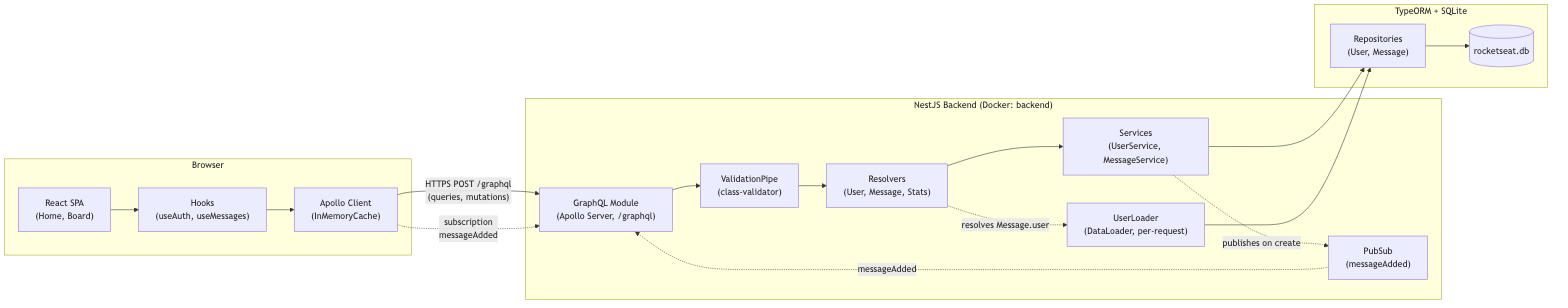
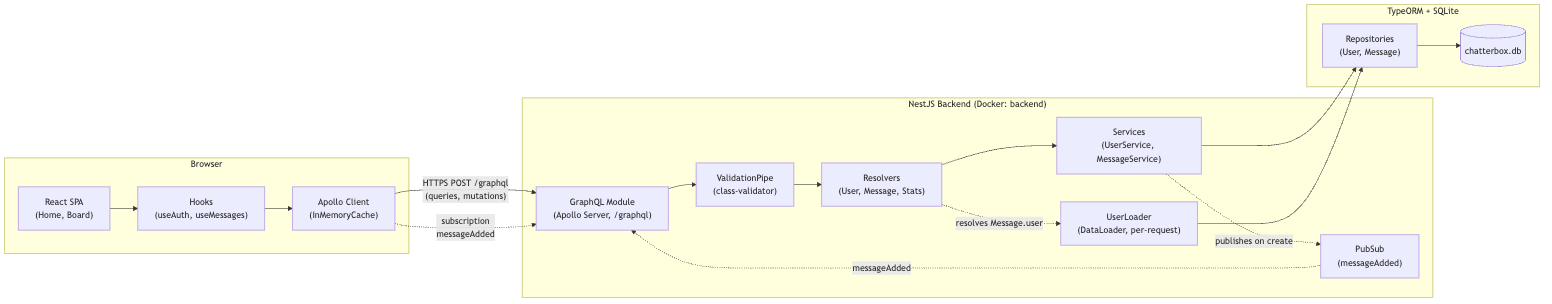
Updates

diff --git a/back-end/src/db/loaders/UserLoader.spec.ts b/back-end/src/db/loaders/UserLoader.spec.ts
@@ -1,0 +1,69 @@
+import { DataSource } from 'typeorm';
+import createUserLoader from './UserLoader';
+import User from '../models/user.entity';
+
+// UserLoader is the actual piece of code behind the README's "DataLoader —
+// per-request batch loading (N+1 prevention)" claim, but nothing exercised
+// it directly: the resolver spec only checks that `getUser` calls
+// `UserLoader.load(id)`, with the loader itself mocked away. If the batch
+// function here ever returned users out of order, or dropped a duplicate
+// key, every message in a list would silently show the wrong author — these
+// tests exercise the real DataLoader batching machinery instead of a mock.
+
+function buildDataSource(seedUsers: User[]) {
+  const findBy = jest.fn(async (where: { id: { value: number[] } }) => {
+    const ids = where.id.value;
+    return seedUsers.filter(user => ids.includes(user.id));
+  });
+  const getRepository = jest.fn().mockReturnValue({ findBy });
+  return { dataSource: { getRepository } as unknown as DataSource, findBy };
+}
+
+describe('UserLoader', () => {
+  const seedUsers = [
+    { id: 1, email: 'a@test.com' },
+    { id: 2, email: 'b@test.com' },
+    { id: 3, email: 'c@test.com' },
+  ] as User[];
+
+  it('resolves each requested id to its matching user, preserving request order', async () => {
+    const { dataSource } = buildDataSource(seedUsers);
+    const loader = createUserLoader(dataSource)();
+
+    const result = await loader.loadMany([3, 1, 2]);
+
+    expect(result).toEqual([seedUsers[2], seedUsers[0], seedUsers[1]]);
+  });
+
+  it('batches concurrent loads for different ids into a single underlying query', async () => {
+    const { dataSource, findBy } = buildDataSource(seedUsers);
+    const loader = createUserLoader(dataSource)();
+
+    await Promise.all([loader.load(1), loader.load(2), loader.load(3)]);
+
+    expect(findBy).toHaveBeenCalledTimes(1);
+    expect(findBy.mock.calls[0][0].id.value.sort()).toEqual([1, 2, 3]);
+  });
+
+  it('dedupes repeated requests for the same id within a batch', async () => {
+    const { dataSource, findBy } = buildDataSource(seedUsers);
+    const loader = createUserLoader(dataSource)();
+
+    const [first, second] = await Promise.all([loader.load(1), loader.load(1)]);
+
+    expect(first).toEqual(second);
+    expect(findBy).toHaveBeenCalledTimes(1);
+    expect(findBy.mock.calls[0][0].id.value).toEqual([1]);
+  });
+
+  it('resolves an id with no matching user to undefined, without breaking the other results', async () => {
+    const { dataSource } = buildDataSource(seedUsers);
+    const loader = createUserLoader(dataSource)();
+
+    const result = await loader.loadMany([1, 999, 2]);
+
+    expect(result[0]).toEqual(seedUsers[0]);
+    expect(result[1]).toBeUndefined();
+    expect(result[2]).toEqual(seedUsers[1]);
+  });
+});

diff --git a/e2e/tests/full-stack.spec.ts b/e2e/tests/full-stack.spec.ts
@@ -82,6 +82,44 @@ test.describe('Full-stack round trip (real front-end + real back-end)', () => {
     }
   });
 
+  test('real-time: a message sent by one user appears live for another user with no reload or action', async ({
+    page,
+    request,
+    browser,
+  }) => {
+    const emailA = `pw-live-a-${Date.now()}@example.com`;
+    const emailB = `pw-live-b-${Date.now()}@example.com`;
+    const content = `Live subscription message ${Date.now()}`;
+
+    const userIdA = await createUserDirectly(request, emailA);
+    const userIdB = await createUserDirectly(request, emailB);
+    const contextB = await browser.newContext();
+    const pageB = await contextB.newPage();
+
+    try {
+      // User A's board, driven by the default `page` fixture.
+      await page.goto(`/dashboard?id=${userIdA}`);
+
+      // User B's board, in a fully separate browser context/session — it is never
+      // reloaded or interacted with again after this point.
+      await pageB.goto(`/dashboard?id=${userIdB}`);
+      await expect(pageB.getByText('No messages yet. Be the first to write one!')).toBeVisible();
+
+      // User A sends a message through the real UI.
+      await page.getByPlaceholder('Write a message...').fill(content);
+      await page.getByRole('button', { name: 'Send' }).click();
+      await expect(page.getByText(content)).toBeVisible();
+
+      // It must reach User B's board over the messageAdded GraphQL subscription —
+      // not a manual refresh, not an action B took.
+      await expect(pageB.getByText(content)).toBeVisible({ timeout: 5000 });
+    } finally {
+      await contextB.close();
+      await deleteUser(request, userIdA);
+      await deleteUser(request, userIdB);
+    }
+  });
+
   test('sad path: submitting the login form with no e-mail alerts and does not navigate', async ({ page }) => {
     let alertMessage = '';
     page.once('dialog', (dialog) => {

diff --git a/front-end/src/hooks/useMessages.test.tsx b/front-end/src/hooks/useMessages.test.tsx
@@ -3,9 +3,21 @@ import { renderHook, waitFor, act } from '@testing-library/react';
 import { MockedProvider, MockedResponse } from '@apollo/client/testing';
 import { GraphQLError } from 'graphql';
 import { useMessages } from './useMessages';
-import { GET_ALL_MESSAGES, CREATE_MESSAGE, DELETE_MESSAGE } from '../graphql/message';
+import { GET_ALL_MESSAGES, CREATE_MESSAGE, DELETE_MESSAGE, MESSAGE_ADDED } from '../graphql/message';
 
 const USER_ID = 1;
+
+// useMessages subscribes to MESSAGE_ADDED on mount; this mock just needs to be
+// present so MockedProvider has a match for it. It never resolves during these tests.
+const MESSAGE_ADDED_MOCK: MockedResponse = {
+  request: { query: MESSAGE_ADDED },
+  result: {
+    data: {
+      messageAdded: { id: 0, content: '', userId: 0, user: { email: '' } },
+    },
+  },
+  delay: Infinity,
+};
 
 const emptyListMock: MockedResponse = {
   request: { query: GET_ALL_MESSAGES, variables: { page: 1, limit: 10 } },
@@ -28,7 +40,7 @@ const oneMessageMock: MockedResponse = {
 
 function wrapper(mocks: MockedResponse[]) {
   return function Wrapper({ children }: { children: React.ReactNode }) {
-    return <MockedProvider mocks={mocks}>{children}</MockedProvider>;
+    return <MockedProvider mocks={[...mocks, MESSAGE_ADDED_MOCK]}>{children}</MockedProvider>;
   };
 }
 

diff --git a/front-end/src/pages/Board/index.test.tsx b/front-end/src/pages/Board/index.test.tsx
@@ -3,14 +3,29 @@ import { render, screen, fireEvent, waitFor } from '@testing-library/react';
 import { MemoryRouter } from 'react-router-dom';
 import { MockedProvider, MockedResponse } from '@apollo/client/testing';
 import Board from './index';
-import { GET_ALL_MESSAGES, CREATE_MESSAGE } from '../../graphql/message';
+import { GET_ALL_MESSAGES, CREATE_MESSAGE, MESSAGE_ADDED } from '../../graphql/message';
 
 const USER_ID = 1;
 
+// The Board page subscribes to MESSAGE_ADDED on mount; this mock just needs to be
+// present so MockedProvider has a match for it. It never resolves during these tests.
+const MESSAGE_ADDED_MOCK: MockedResponse = {
+  request: { query: MESSAGE_ADDED },
+  result: {
+    data: {
+      messageAdded: { id: 0, content: '', userId: 0, user: { email: '' } },
+    },
+  },
+  delay: Infinity,
+};
+
 function renderBoard(mocks: MockedResponse[]) {
   return render(
-    <MemoryRouter initialEntries={[`/dashboard?id=${USER_ID}`]}>
-      <MockedProvider mocks={mocks}>
+    <MemoryRouter
+      initialEntries={[`/dashboard?id=${USER_ID}`]}
+      future={{ v7_startTransition: true, v7_relativeSplatPath: true }}
+    >
+      <MockedProvider mocks={[...mocks, MESSAGE_ADDED_MOCK]}>
         <Board />
       </MockedProvider>
     </MemoryRouter>,

diff --git a/front-end/src/services/api.ts b/front-end/src/services/api.ts
@@ -1,17 +1,29 @@
-import { ApolloClient, InMemoryCache, createHttpLink } from '@apollo/client';
+import { ApolloClient, InMemoryCache, createHttpLink, split } from '@apollo/client';
+import { getMainDefinition } from '@apollo/client/utilities';
+import { GraphQLWsLink } from '@apollo/client/link/subscriptions';
+import { createClient } from 'graphql-ws';
+
+const GRAPHQL_URL = process.env.REACT_APP_GRAPHQL_URL || 'http://localhost:3333/graphql';
+const GRAPHQL_WS_URL = GRAPHQL_URL.replace(/^http/, 'ws');
 
 const httpLink = createHttpLink({
-  uri: 'http://localhost:3333/graphql',
+  uri: GRAPHQL_URL,
 });
 
+const wsLink = new GraphQLWsLink(createClient({ url: GRAPHQL_WS_URL }));
+
+const splitLink = split(
+  ({ query }) => {
+    const definition = getMainDefinition(query);
+    return definition.kind === 'OperationDefinition' && definition.operation === 'subscription';
+  },
+  wsLink,
+  httpLink,
+);
+
 const client = new ApolloClient({
-  link: httpLink,
+  link: splitLink,
   cache: new InMemoryCache(),
-  // defaultOptions: {
-  //   watchQuery: {
-  //     fetchPolicy: 'cache-and-network',
-  //   },
-  // },
 });
 
 export default client;

diff --git a/back-end/src/common/paginate.spec.ts b/back-end/src/common/paginate.spec.ts
@@ -1,0 +1,31 @@
+import { paginate } from './paginate';
+
+describe('paginate', () => {
+  it('returns 1 page (not 0) when there are no items', () => {
+    const result = paginate([], 0, 1, 10);
+
+    expect(result).toEqual({ items: [], total: 0, page: 1, pages: 1 });
+  });
+
+  it('rounds up to include a partial final page', () => {
+    const result = paginate(['a', 'b', 'c'], 23, 2, 10);
+
+    expect(result.pages).toBe(3);
+  });
+
+  it('does not add an extra page when total divides evenly by limit', () => {
+    const result = paginate(['a'], 20, 1, 10);
+
+    expect(result.pages).toBe(2);
+  });
+
+  it('passes items, total, and page through unchanged', () => {
+    const items = [{ id: 1 }, { id: 2 }];
+
+    const result = paginate(items, 2, 3, 5);
+
+    expect(result.items).toBe(items);
+    expect(result.total).toBe(2);
+    expect(result.page).toBe(3);
+  });
+});

diff --git a/front-end/src/hooks/useMessages.ts b/front-end/src/hooks/useMessages.ts
@@ -1,13 +1,15 @@
 import { useState } from 'react';
-import { useMutation, useQuery } from '@apollo/client';
+import { useMutation, useQuery, useSubscription } from '@apollo/client';
 import {
   GET_ALL_MESSAGES,
   CREATE_MESSAGE,
   DELETE_MESSAGE,
+  MESSAGE_ADDED,
   IGetMessagesData,
   IGetMessagesVars,
   ICreateMessageVars,
   IDeleteMessageVars,
+  IMessageAddedData,
 } from '../graphql/message';
 
 const PAGE_LIMIT = 10;
@@ -34,6 +36,10 @@ export function useMessages(userId: number) {
   const [deleteMessage] = useMutation<unknown, IDeleteMessageVars>(DELETE_MESSAGE, {
     onCompleted: () => refetch({ page, limit: PAGE_LIMIT }),
     onError: (err) => alert(err.message),
+  });
+
+  useSubscription<IMessageAddedData>(MESSAGE_ADDED, {
+    onData: () => refetch({ page, limit: PAGE_LIMIT }),
   });
 
   function sendMessage(content: string) {

diff --git a/front-end/src/graphql/message.ts b/front-end/src/graphql/message.ts
@@ -35,6 +35,10 @@ export interface IDeleteMessageVars {
   userId: number;
 }
 
+export interface IMessageAddedData {
+  messageAdded: IMessage;
+}
+
 export const GET_ALL_MESSAGES = gql`
   query GetMessages($page: Int, $limit: Int) {
     getMessages(page: $page, limit: $limit) {
@@ -70,6 +74,19 @@ export const DELETE_MESSAGE = gql`
   mutation DeleteMessage($id: Float!, $userId: Float!) {
     deleteMessage(data: { id: $id, userId: $userId }) {
       id
+    }
+  }
+`;
+
+export const MESSAGE_ADDED = gql`
+  subscription MessageAdded {
+    messageAdded {
+      id
+      content
+      userId
+      user {
+        email
+      }
     }
   }
 `;

diff --git a/front-end/public/index.html b/front-end/public/index.html
@@ -10,6 +10,10 @@
       content="GraphQL Message Board — a full-stack GraphQL message board"
     />
     <link rel="apple-touch-icon" href="%PUBLIC_URL%/logo192.png" />
+    <link
+      rel="stylesheet"
+      href="https://fonts.googleapis.com/css?family=Roboto:400,700&display=swap"
+    />
     <!--
       manifest.json provides metadata used when your web app is installed on a
       user's mobile device or desktop. See https://developers.google.com/web/fundamentals/web-app-manifest/

diff --git a/back-end/src/app.module.ts b/back-end/src/app.module.ts
@@ -24,7 +24,9 @@ const gqlImports = [UserResolver, MessageResolver, StatsResolver];
       useFactory: (dataSource: DataSource) => ({
         autoSchemaFile: 'schema.gql',
         playground: process.env.NODE_ENV !== 'production',
-        installSubscriptionHandlers: true,
+        subscriptions: {
+          'graphql-ws': true,
+        },
         context: createContext(dataSource),
       }),
     }),

diff --git a/front-end/src/App.tsx b/front-end/src/App.tsx
@@ -10,7 +10,7 @@ import GlobalStyles from './styles/global';
 function App() {
   return (
     <ApolloProvider client={api}>
-      <BrowserRouter>
+      <BrowserRouter future={{ v7_startTransition: true, v7_relativeSplatPath: true }}>
         <Routes />
 
         <GlobalStyles />

diff --git a/front-end/src/styles/global.ts b/front-end/src/styles/global.ts
@@ -1,7 +1,6 @@
 import { createGlobalStyle } from 'styled-components';
 
 export default createGlobalStyle`
-  @import url('https://fonts.googleapis.com/css?family=Roboto:400,700&display=swap');
   * {
     margin: 0;
     padding: 0;
